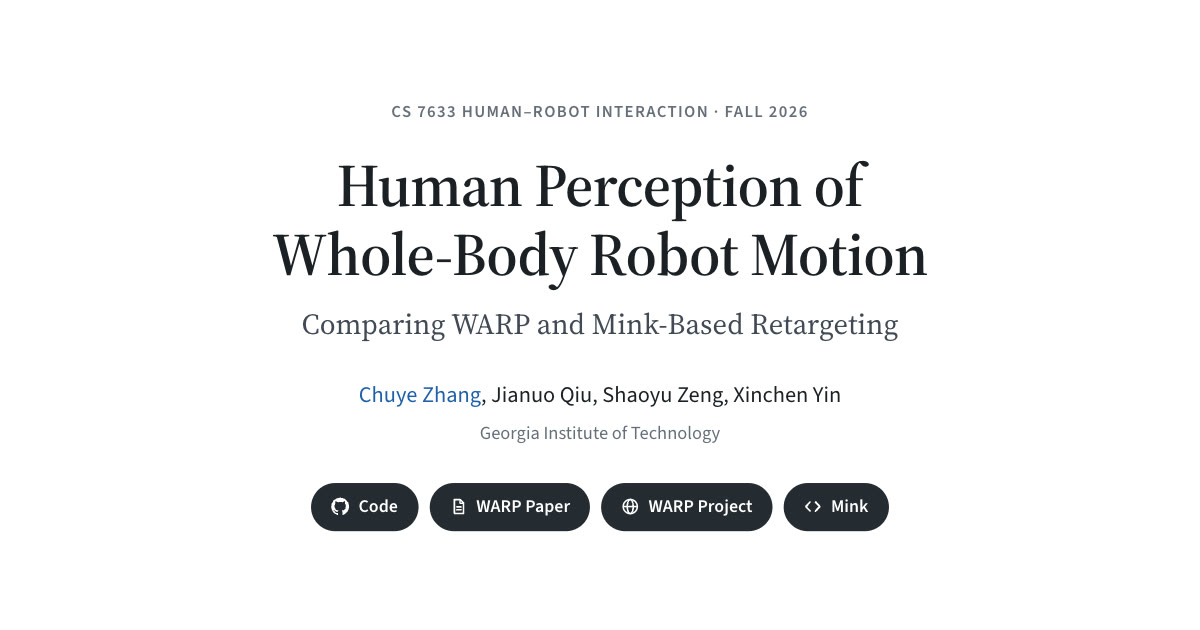
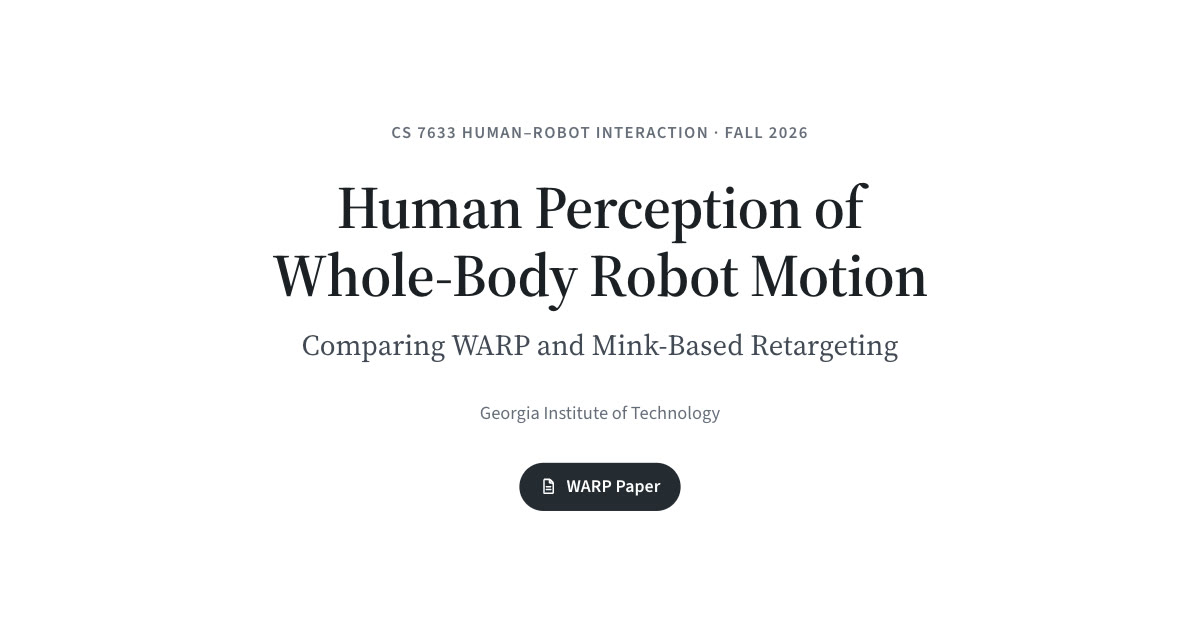
Remove names and outbound links; use the proposal text for motivation
Drop the author byline and the Code, WARP project and Mink links
(page, caption, footer, README), and replace the motivation cards with
the proposal's motivation paragraph verbatim.

Changed region(s): [[0.2158, 0.1508, 0.7708, 0.573], [0.2467, 0.7238, 0.74, 0.8444], [0.3083, 0.6032, 0.7092, 0.6937]]

diff --git a/index.html b/index.html
@@ -32,29 +32,11 @@
       <p class="course"><span>CS 7633 Human–Robot Interaction</span><span class="sep" aria-hidden="true"> · </span><span>Fall 2026</span></p>
       <h1>Human Perception of Whole-&#8288;Body Robot Motion</h1>
       <p class="subtitle">Comparing WARP and Mink-Based Retargeting</p>
-      <p class="authors">
-        <a href="https://zhangchuye.github.io/" target="_blank" rel="noopener">Chuye Zhang</a>,
-        <span>Jianuo Qiu</span>,
-        <span>Shaoyu Zeng</span>,
-        <span>Xinchen Yin</span>
-      </p>
       <p class="affil">Georgia Institute of Technology</p>
       <nav class="links" aria-label="Project links">
-        <a class="btn" href="https://github.com/ZhangChuye/warp_hri" target="_blank" rel="noopener">
-          <svg viewBox="0 0 16 16" aria-hidden="true"><path fill="currentColor" d="M8 0C3.58 0 0 3.58 0 8c0 3.54 2.29 6.53 5.47 7.59.4.07.55-.17.55-.38 0-.19-.01-.82-.01-1.49-2.01.37-2.53-.49-2.69-.94-.09-.23-.48-.94-.82-1.13-.28-.15-.68-.52-.01-.53.63-.01 1.08.58 1.23.82.72 1.21 1.87.87 2.33.66.07-.52.28-.87.51-1.07-1.78-.2-3.64-.89-3.64-3.95 0-.87.31-1.59.82-2.15-.08-.2-.36-1.02.08-2.12 0 0 .67-.21 2.2.82.64-.18 1.32-.27 2-.27.68 0 1.36.09 2 .27 1.53-1.04 2.2-.82 2.2-.82.44 1.1.16 1.92.08 2.12.51.56.82 1.27.82 2.15 0 3.07-1.87 3.75-3.65 3.95.29.25.54.73.54 1.48 0 1.07-.01 1.93-.01 2.2 0 .21.15.46.55.38A8.013 8.013 0 0 0 16 8c0-4.42-3.58-8-8-8z"/></svg>
-          Code
-        </a>
         <a class="btn" href="https://arxiv.org/abs/2606.29940" target="_blank" rel="noopener">
           <svg viewBox="0 0 16 16" aria-hidden="true"><path fill="none" stroke="currentColor" stroke-width="1.4" stroke-linecap="round" stroke-linejoin="round" d="M4 1.8h5.2l3 3v9.4H4zM9 1.8V5h3.2M6 8.3h4.2M6 10.8h4.2"/></svg>
           WARP Paper
-        </a>
-        <a class="btn" href="https://warp-retargeting.github.io/" target="_blank" rel="noopener">
-          <svg viewBox="0 0 16 16" aria-hidden="true"><g fill="none" stroke="currentColor" stroke-width="1.4"><circle cx="8" cy="8" r="6.3"/><ellipse cx="8" cy="8" rx="2.7" ry="6.3"/><path d="M1.7 8h12.6"/></g></svg>
-          WARP Project
-        </a>
-        <a class="btn" href="https://github.com/kevinzakka/mink" target="_blank" rel="noopener">
-          <svg viewBox="0 0 16 16" aria-hidden="true"><path fill="none" stroke="currentColor" stroke-width="1.6" stroke-linecap="round" stroke-linejoin="round" d="M5.5 4 1.8 8l3.7 4M10.5 4l3.7 4-3.7 4"/></svg>
-          Mink
         </a>
       </nav>
     </div>
@@ -65,11 +47,6 @@
     <section class="section section-soft" id="motivation" aria-labelledby="motivation-title">
       <div class="wrap">
         <h2 id="motivation-title">Motivation</h2>
-        <p class="lead">
-          Human motion can be retargeted to robots. But matching an end-effector trajectory
-          does not tell us how that motion <em>feels</em> to people.
-        </p>
-
         <div class="slider" data-slider role="group" aria-roledescription="carousel" aria-label="Project overview">
           <button class="slider-arrow slider-prev" type="button" aria-label="Previous card">
             <svg viewBox="0 0 16 16" aria-hidden="true"><path d="M10 3 5 8l5 5" fill="none" stroke="currentColor" stroke-width="2" stroke-linecap="round" stroke-linejoin="round"/></svg>
@@ -77,20 +54,20 @@
           <ol class="slider-track" tabindex="0">
             <li class="slide">
               <article class="card">
-                <p class="kicker">Research question</p>
-                <p>We compare two offline human-to-robot retargeting methods, <b>WARP</b> and <b class="nowrap">MINK-TE</b>, and ask: which motions look more <b>trustworthy, comfortable, natural, competent, and easy to understand</b>?</p>
+                <p class="kicker">Background</p>
+                <p>Offline human-to-robot motion retargeting converts human demonstrations into robot movements, typically with the goal of reproducing <b>task-space behavior</b>, such as end-effector trajectories, so that the robot achieves the same manipulation effect on the environment.</p>
               </article>
             </li>
             <li class="slide">
               <article class="card">
-                <p class="kicker">Study</p>
-                <p>Participants evaluate robot behaviors across a <b>diverse set of manipulation tasks</b>, using both <b>simulation</b> and <b>real-world</b> recordings.</p>
+                <p class="kicker">Gap</p>
+                <p>Such retargeted trajectories can therefore serve as offline robot demonstrations for downstream behavior cloning. However, task-space tracking accuracy alone does not establish whether people <b>trust</b> the robot, feel <b>comfortable</b> around it, or perceive its motion as <b>natural and understandable</b>.</p>
               </article>
             </li>
             <li class="slide">
               <article class="card">
-                <p class="kicker">Goal</p>
-                <p>Move beyond task-space accuracy and understand how retargeted robot motion is <b>perceived by humans</b>.</p>
+                <p class="kicker">This project</p>
+                <p>This project compares user perceptions of robot motions generated by two retargeting methods, <b>WARP</b> and <b class="nowrap">MINK-TE</b>, across several <b>HRI dimensions</b>. A diverse set of tasks from both <b>simulation and real-world recordings</b> will be used as study stimuli.</p>
               </article>
             </li>
           </ol>
@@ -121,7 +98,7 @@
           <figcaption>
             Left to right: reference human motion, <b>WARP</b>, and the Mink baseline, first tracking the end effector only
             (<span class="nowrap">MINK-EF</span>) and then with torso and elbow targets added (<span class="nowrap">MINK-TE</span>, the baseline in our study).
-            Video from the <a href="https://warp-retargeting.github.io/" target="_blank" rel="noopener">WARP project page</a>.
+            Video from the WARP project.
           </figcaption>
         </figure>
 
@@ -183,12 +160,7 @@
 
   <footer class="footer">
     <div class="wrap">
-      <p>
-        Course project for CS 7633 Human–Robot Interaction, Georgia Institute of Technology, Fall 2026.
-        The comparison video is from the <a href="https://warp-retargeting.github.io/" target="_blank" rel="noopener">WARP project page</a>;
-        the MINK baselines build on <a href="https://github.com/kevinzakka/mink" target="_blank" rel="noopener">Mink</a>.
-      </p>
-      <p><a href="https://github.com/ZhangChuye/warp_hri" target="_blank" rel="noopener">Page source on GitHub</a></p>
+      <p>Course project for CS 7633 Human–Robot Interaction, Georgia Institute of Technology, Fall 2026.</p>
     </div>
   </footer>
 </body>

diff --git a/assets/css/style.css b/assets/css/style.css
@@ -70,10 +70,6 @@ h1 {
   font: 400 clamp(19px, 2.4vw, 26px)/1.35 var(--serif);
   color: var(--text-2);
 }
-.authors { margin: 0 0 4px; font-size: clamp(17px, 1.9vw, 20px); }
-.authors > * { white-space: nowrap; }
-.authors a { text-decoration: none; }
-.authors a:hover { text-decoration: underline; }
 .affil { margin: 0 0 30px; font-size: 16.5px; color: var(--text-3); }
 
 .links { display: flex; flex-wrap: wrap; justify-content: center; gap: 10px; }
@@ -126,7 +122,7 @@ h2 {
   grid-template-columns: auto minmax(0, 1fr) auto;
   align-items: center;
   column-gap: 10px;
-  max-width: 880px; margin-inline: auto;
+  max-width: 880px; margin: clamp(22px, 3vw, 30px) auto 0;
 }
 .slider-track {
   grid-column: 2;

diff --git a/README.md b/README.md
@@ -4,8 +4,6 @@ Project website for our **CS 7633 (Fall 2026)** course project: a video-based us
 
 **Live site:** https://zhangchuye.github.io/warp_hri/
 
-**Team:** Chuye Zhang, Jianuo Qiu, Shaoyu Zeng, Xinchen Yin
-
 ## Preview locally
 
 ```bash
